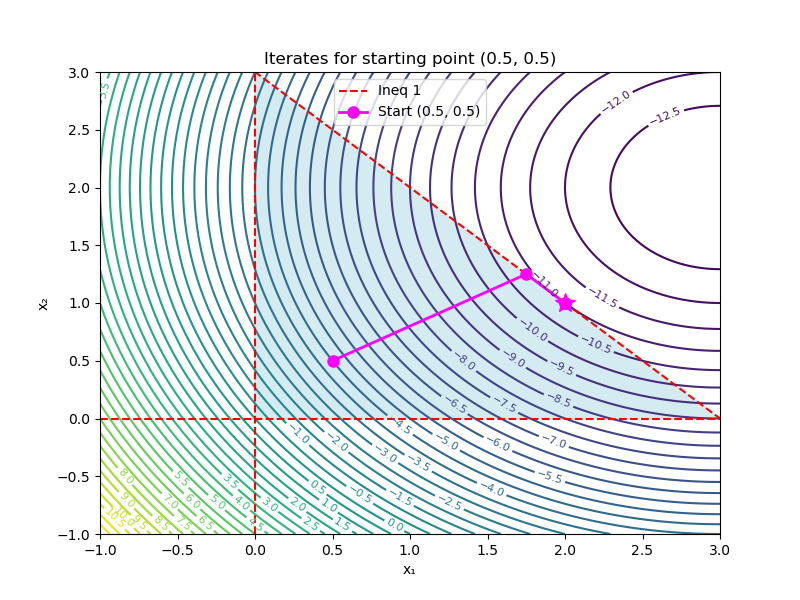
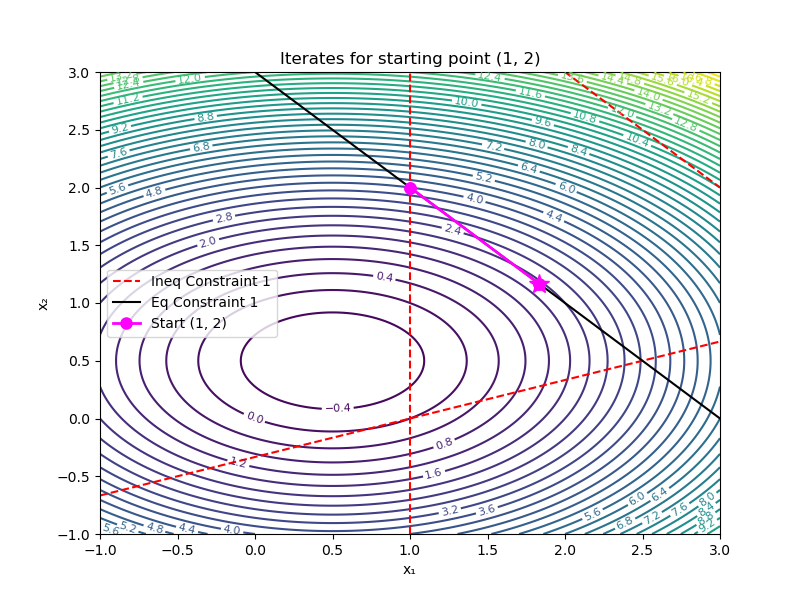
active set method for general convex QP

diff --git a/HW_active_set/active_set_solver/active_set.py b/HW_active_set/active_set_solver/active_set.py
@@ -5,35 +5,47 @@ def objective(x, G, c):
     """Compute the quadratic objective: 0.5*xᵀGx + cᵀx."""
     return 0.5 * x.T @ G @ x + c.T @ x
 
-def active_set_qp(G, c, A, b, x0, tol=1e-8, max_iter=50):
+def active_set_qp(G, c, A, b, C, d, x0, tol=1e-8, max_iter=50):
     """
     Solve the convex QP
          minimize    0.5*xᵀ G x + cᵀ x
-         subject to  A x ≥ b
+         subject to  A x ≥ b,   C x = d
     using an active‑set method.
-        
+    
     Parameters:
       G       : (n x n) symmetric positive definite matrix.
       c       : (n,) vector.
-      A       : (m x n) matrix, where each row aᵢᵀ defines an inequality constraint aᵢᵀ*x ≥ bᵢ.
+      A       : (m x n) matrix for inequality constraints (A x ≥ b). May be empty.
       b       : (m,) vector.
-      x0      : Feasible starting point (must satisfy A*x ≥ b).
+      C       : (p x n) matrix for equality constraints (C x = d). May be empty.
+      d       : (p,) vector.
+      x0      : Feasible starting point (satisfies A x ≥ b and C x = d).
       tol     : Tolerance for determining activity and convergence.
       max_iter: Maximum number of iterations.
       
     Returns:
       x_opt     : Optimal solution.
       lambda_opt: Dictionary mapping indices of active inequality constraints to multipliers.
-      history   : List of tuples (working set, f(x), α, ||p||², x_iterate) for each iteration.
+                  (Multipliers corresponding to equality constraints are not used for removal.)
+      history   : List of tuples (working set, f(x), α, ||p||²) for each iteration.
     """
     x = x0.copy()
-    n_constraints = A.shape[0]
+    n_constraints = A.shape[0] if A.size > 0 else 0 # inequality constraints
     
     # Check feasibility of the initial point.
     for i in range(n_constraints):
         if A[i] @ x < b[i] - tol:
             raise ValueError(f"Initial point is infeasible: Constraint {i} violated, A[i]x = {A[i]@x}, b[i]={b[i]}")
     
+    # Check feasibility for equality constraints.
+    if C.size > 0:
+        p_eq = C.shape[0]
+        for i in range(p_eq):
+            if abs(C[i] @ x - d[i]) > tol:
+                raise ValueError(f"Infeasible starting point: Equality {i} violated, C[i]x = {C[i]@x}, d[i] = {d[i]}")
+    else:
+        p_eq = 0
+        
     # Initialize working set with indices of constraints active at x0.
     W = []
     for i in range(n_constraints):
@@ -45,16 +57,22 @@ def active_set_qp(G, c, A, b, x0, tol=1e-8, max_iter=50):
     for k in range(max_iter):
         f_val = objective(x, G, c)
         
-        # Form the working-set matrix A_W.
-        if len(W) > 0:
-            A_W = A[W, :]
+        # Form the combined equality constraint matrix for the subproblem.
+        # Always include equality constraints, and add the active inequality constraints.
+        if C.size > 0:
+            Aeq = C.copy()
+            beq = d.copy()
         else:
-            A_W = np.empty((0, x.size))
+            Aeq = np.empty((0, x.size))
+            beq = np.empty((0,))
+        if len(W) > 0:
+            Aeq = np.vstack((Aeq, A[W, :]))
+            beq = np.concatenate((beq, b[W]))
         
         # Solve the equality-constrained QP subproblem:
-        #   min_p 0.5*pᵀGp + pᵀ*(Gx+c)   subject to   A_W p = 0.
-        if A_W.shape[0] > 0:
-            p, lambda_W = solve_eqp(G, G @ x + c, A_W, np.zeros(A_W.shape[0]))
+        #   min_p 0.5*pᵀGp + pᵀ*(Gx+c)   subject to   A_eq p = 0.
+        if Aeq.shape[0] > 0:
+            p, lambda_W = solve_eqp(G, G @ x + c, Aeq, np.zeros(Aeq.shape[0]))
         else:
             # Unconstrained step.
             p = - np.linalg.solve(G, (G @ x + c))
@@ -67,16 +85,18 @@ def active_set_qp(G, c, A, b, x0, tol=1e-8, max_iter=50):
             if len(W) == 0:
                 history.append((W.copy(), f_val, None, p_norm**2, x.copy()))
                 return x, {}, history
-            if all(lambda_W >= -tol):
+            # Separate multipliers: first for equality constraints (from C) then for active inequalities.
+            lambda_ineq = lambda_W[p_eq:] #if lambda_W.size > p_eq else np.array([])
+            if all(lambda_ineq >= -tol):
                 history.append((W.copy(), f_val, None, p_norm**2, x.copy()))
-                lambda_dict = {i: lambda_W[j] for j, i in enumerate(W)}
+                lambda_dict = {i: lambda_ineq[j] for j, i in enumerate(W)}
                 return x, lambda_dict, history
             else:
                 # Remove the constraint with the most negative multiplier.
-                lambda_W = np.array(lambda_W)
-                j_index = np.argmin(lambda_W)
+                lambda_ineq = np.array(lambda_ineq)
+                j_index = np.argmin(lambda_ineq)
                 j = W[j_index]
-                print(f"Iteration {k}: p≈0 but lambda[{j}] = {lambda_W[j_index]:.4f} < 0; removing constraint {j}.")
+                print(f"Iteration {k}: p≈0 but lambda[{j}] = {lambda_ineq[j_index]:.4f} < 0; removing constraint {j}.")
                 W.pop(j_index)
                 history.append((W.copy(), f_val, 0, p_norm**2, x.copy()))
         else:
@@ -89,6 +109,8 @@ def active_set_qp(G, c, A, b, x0, tol=1e-8, max_iter=50):
                 if i in W:
                     continue
                 a_i = A[i]
+                # For an inequality A[i]x ≥ b[i], a decrease in A[i]x is harmful.
+                # If a_i @ p < -tol, then compute the maximum step to maintain feasibility.
                 if a_i @ p < -tol:
                     alpha_i = (a_i @ x - b[i]) / (- (a_i @ p))
                     if alpha_i < alpha:

diff --git a/HW_active_set/active_set_solver/plot_results.py b/HW_active_set/active_set_solver/plot_results.py
@@ -1,7 +1,7 @@
 import numpy as np
 import matplotlib.pyplot as plt
 
-def plot_feasible_region_and_contours(G, c, A, b, x_range=(-1, 3), y_range=(-1, 3), levels=50):
+def plot_feasible_region_and_contours(G, c, A, b, C, d, x_range=(-1, 3), y_range=(-1, 3), levels=50):
     # Create a grid of points.
     x1 = np.linspace(x_range[0], x_range[1], 400)
     x2 = np.linspace(y_range[0], y_range[1], 400)
@@ -16,30 +16,47 @@ def plot_feasible_region_and_contours(G, c, A, b, x_range=(-1, 3), y_range=(-1, 
     contour = ax.contour(X1, X2, Z, levels=levels, cmap='viridis')
     ax.clabel(contour, inline=True, fontsize=8)
     
-    # Compute feasibility mask for A*x ≥ b.
+# Create a feasibility mask.
     feas_mask = np.ones_like(X1, dtype=bool)
+    # Inequality constraints: A*x ≥ b.
     for i in range(A.shape[0]):
         feas_mask = feas_mask & ((A[i,0]*X1 + A[i,1]*X2) >= (b[i] - 1e-6))
+    # Equality constraints: |C*x - d| <= tol.
+    tol = 1e-6
+    if C.size > 0:
+        for i in range(C.shape[0]):
+            feas_mask = feas_mask & (np.abs(C[i,0]*X1 + C[i,1]*X2 - d[i]) <= tol)
     
     # Shade feasible region.
     ax.contourf(X1, X2, feas_mask, levels=[0.5, 1], colors='lightblue', alpha=0.5)
     
-    # Plot the boundaries for the inequality constraints.
+    # Plot inequality constraint boundaries.
     for i in range(A.shape[0]):
-        # If the constraint is not vertical:
         if abs(A[i,1]) > 1e-6:
             x_vals = np.linspace(x_range[0], x_range[1], 200)
             y_vals = (b[i] - A[i,0]*x_vals) / A[i,1]
-            ax.plot(x_vals, y_vals, 'r--', label=f"Ineq {i+1}" if i == 0 else None)
+            ax.plot(x_vals, y_vals, 'r--', label=f"Ineq Constraint {i+1}" if i==0 else None)
         else:
             x_val = b[i] / A[i,0]
-            ax.axvline(x=x_val, color='r', linestyle='--', label=f"Ineq {i+1}" if i == 0 else None)
+            ax.axvline(x=x_val, color='r', linestyle='--', label=f"Ineq Constraint {i+1}" if i==0 else None)
+    
+    # Plot equality constraints.
+    if C.size > 0:
+        for i in range(C.shape[0]):
+            if abs(C[i,1]) > 1e-6:
+                x_vals = np.linspace(x_range[0], x_range[1], 200)
+                y_vals = (d[i] - C[i,0]*x_vals) / C[i,1]
+                ax.plot(x_vals, y_vals, 'k-', label=f"Eq Constraint {i+1}" if i==0 else None)
+            else:
+                x_val = d[i] / C[i,0]
+                ax.axvline(x=x_val, color='k', linestyle='-', label=f"Eq Constraint {i+1}" if i==0 else None)
     
     ax.set_xlabel('x₁')
     ax.set_ylabel('x₂')
-    ax.set_title('Objective Contours, Feasible Region, and Active-Set Iterates')
+    ax.set_title('Objective Function Contours and Feasible Region')
     ax.set_xlim(x_range)
     ax.set_ylim(y_range)
+    ax.legend()
     
     return fig, ax
 

diff --git a/HW_active_set/active_set_solver/test_active_set.py b/HW_active_set/active_set_solver/test_active_set.py
@@ -4,12 +4,12 @@ from plot_results import plot_feasible_region_and_contours
 import matplotlib.pyplot as plt
 
 
-def run_test(G, c, A, b, starting_point, idx):
+def run_test(G, c, A, b, C, d, starting_point, idx):
     
     print("\n======================================")
     print(f"Testing with starting point: {starting_point}")
     x0 = np.array(starting_point)
-    x_opt, lambda_opt, history = active_set_qp(G, c, A, b, x0)
+    x_opt, lambda_opt, history = active_set_qp(G, c, A, b, C, d, x0)
     
     print("\nFinal solution:")
     print("x* =", x_opt)
@@ -21,7 +21,7 @@ def run_test(G, c, A, b, starting_point, idx):
         print(f"Iteration {k}: W = {W}, f(x) = {f_val:.4f}, α = {alpha}, ||p||² = {p_norm_sq:.4e}, x = {x_iterate}")
         
     # Plot the iterates.
-    fig, ax = plot_feasible_region_and_contours(G, c, A, b)
+    fig, ax = plot_feasible_region_and_contours(G, c, A, b, C, d)
     colors = ['magenta', 'orange', 'cyan']  # one color per starting point
     markers = ['o', 's', '^']
     
@@ -68,9 +68,11 @@ if __name__ == "__main__":
         [0, 1]
     ])
     b = np.array([-1.0, -2.0, 0.0, 0.0])
+    C = np.array([])
+    d = np.array([])
     # Test with starting points (0.5,0.5), (0,0), and (1,0).
     for idx, sp in enumerate([(0.5, 0.5), (0, 0), (1, 0)]):
-        run_test(G, c, A, b, sp, idx)
+        run_test(G, c, A, b, C, d, sp, idx)
         
     # (b) Define QP data.
         # (a) Define QP data.
@@ -83,8 +85,27 @@ if __name__ == "__main__":
         [0, 1]
     ])
     b = np.array([-3.0, 0.0, 0.0])
+    C = np.array([])
+    d = np.array([])
     # Test with starting points (0.5,0.5), (0,0), and (1,0).
     for idx, sp in enumerate([(0.5, 0.5), (0, 0), (1, 0)]):
-        run_test(G, c, A, b, sp, idx)
+        run_test(G, c, A, b, C, d, sp, idx)
+        
+    # (Misc) Define QP data.
+    G = np.array([[2, 0],
+                  [0, 4]])
+    c = np.array([-1, -2])
+    A = np.array([
+        [1, 0],
+        [0, -1],
+        [-1, 3],
+        [-1, -1]
+    ])
+    b = np.array([1, -3, -1, -5])
+    C = np.array([[1, 1]])
+    d = np.array([3])
+    # Test with starting points (0.5,0.5), (0,0), and (1,0).
+    for idx, sp in enumerate([(1, 2), (2.5, 0.5), (2, 1)]):
+        run_test(G, c, A, b, C, d, sp, idx)
     
     
